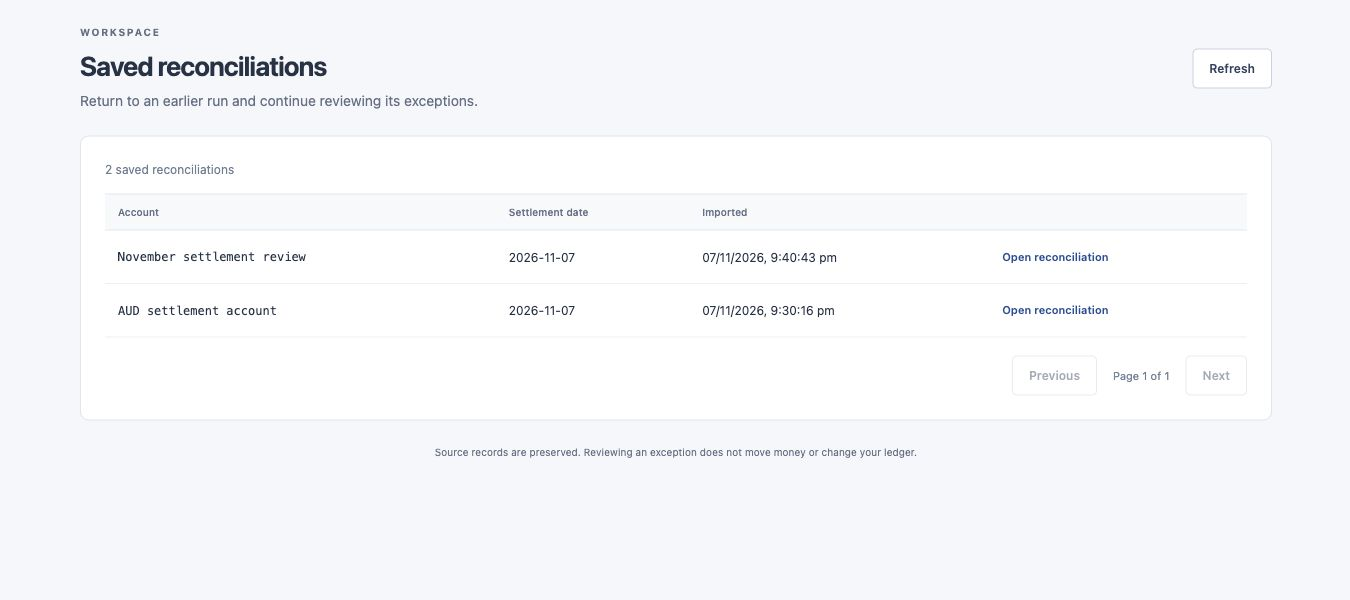
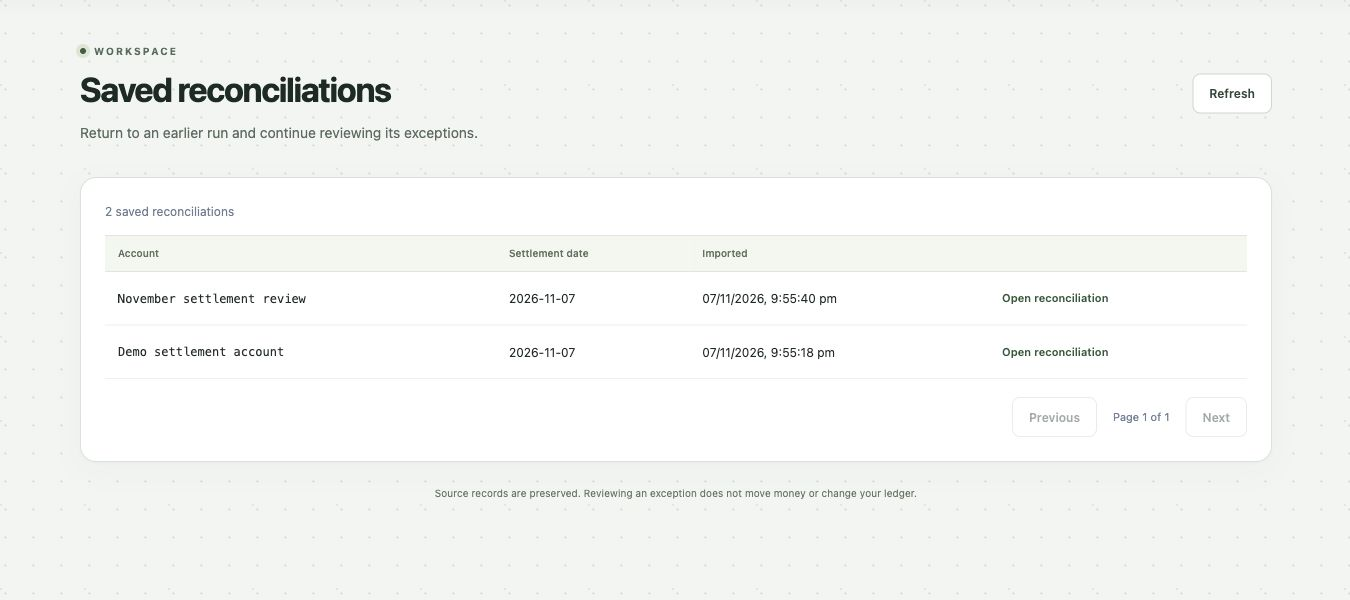
Add animated dot field and refined charcoal and sage workspace

diff --git a/src/main/resources/static/app.css b/src/main/resources/static/app.css
@@ -5,3 +5,22 @@ header nav{display:flex;height:100%;align-items:stretch;gap:22px;margin-left:aut
 .column-mapping{margin-top:12px;border-top:1px solid #dce3ed;padding-top:10px;font-size:10px;color:#647086}.column-mapping label{margin:10px 0 4px;font-size:10px}.column-mapping select{font-size:11px}.column-mapping button{margin-top:12px;font-size:10px}.column-mapping summary{font-size:11px}
 
 .report-actions{display:flex;gap:8px}.results:first-child{margin-top:0}.results-title{margin-bottom:5px}.results{box-shadow:0 1px 3px #16314e04}@media(max-width:700px){.report-actions{flex-direction:column;gap:6px}.report-actions button{padding:7px 9px;font-size:10px}}
+
+/* A quiet moving dot field sits behind the workspace, never over the data. */
+:root{--blue:#182d2b;--border:#dfe4e2;--muted:#64716e;background:#f3f5f2;color:#202b29}
+body{isolation:isolate;overflow-x:hidden}
+body::before,body::after{content:"";position:fixed;inset:-56px;pointer-events:none;z-index:-1;background-image:radial-gradient(circle,#182621 1px,transparent 1.3px);background-size:28px 28px;opacity:.13;animation:dot-drift 24s linear infinite;will-change:transform}
+body::after{background-size:84px 84px;opacity:.08;animation:dot-drift 38s linear infinite reverse}
+@keyframes dot-drift{from{transform:translate3d(0,0,0)}to{transform:translate3d(28px,28px,0)}}
+header{background:#172522;color:#fff;border-bottom:1px solid #34423d;box-shadow:0 4px 20px #13211a0d}
+.brand{color:#f5f8f1;letter-spacing:-.8px}.logo{background:#d4e8b6;color:#172522;border-radius:9px;box-shadow:inset 0 0 0 1px #ffffff40}
+.header-note{color:#b2c0b8;border-color:#405049}.nav-button{color:#aebfb6}.nav-button.active{color:#e0efc9;border-bottom-color:#c7dfa7}.settings-button{background:#243530;border-color:#4a5b53;color:#e1e9e2}
+main{padding-top:38px}.page-title{min-height:115px;margin-bottom:26px}.kicker{display:flex;align-items:center;gap:8px;color:#556b5e;letter-spacing:2px}.kicker::before{content:"";width:6px;height:6px;background:#425c45;border-radius:50%;box-shadow:0 0 0 4px #dbe6d4}
+h1{font-size:34px;letter-spacing:-1.3px;color:#192b24;font-weight:700}.page-title p:last-child{margin-top:8px;color:#5a6c61;max-width:610px}
+.input-panel,.results{border-color:#d9e1d9;border-radius:16px;box-shadow:0 8px 32px #192d1e07,0 1px 2px #192d1e06;background:#fffffff7}
+button,input,select,textarea{transition:background-color .18s,border-color .18s,box-shadow .18s,transform .18s}button{border-radius:8px}.primary{background:#213d30;box-shadow:0 2px 4px #18322520}.primary:hover:not(:disabled){background:#152b20;transform:translateY(-1px)}.secondary{border-color:#ccd7cf;color:#304638;background:#fff}.secondary:hover:not(:disabled){background:#f0f5eb;border-color:#a5b99e}.settings-button:hover:not(:disabled){background:#344b40}.nav-button:hover:not(:disabled){background:#ffffff09}
+.upload{border-color:#c3d0c4;background:#f7faf5;border-radius:12px;transition:border-color .2s,box-shadow .2s}.upload:hover{border-color:#7d977c;box-shadow:0 3px 12px #31492b08}.file-icon{background:#e9f0e1;border-color:#d4dfc9;color:#44633d;border-radius:8px}
+.stats{overflow:hidden;border-radius:11px;background:#fafcf8}.stats strong{font-size:34px;color:#243e2b}.stats>div:nth-child(2){background:#f1f7ec}.stats>div:nth-child(3){background:#fdf9ee}.stats .attention strong{color:#956827}.stats>div:nth-child(4){background:#f3f7f2}.stats>div{padding:19px 20px}
+.tabs{background:#edf1eb;border-radius:8px}.tabs button[aria-pressed=true]{color:#233d2a;border-radius:6px}.row-detail{color:#30593b}.result-table tbody tr:hover{background:#f8fbf5}th{background:#f3f6f0;color:#61715e}td{border-bottom-color:#eaf0e7}.sample-notice{background:#edf3e8;color:#4b6344}.empty{background:#ffffff85;border:1px dashed #cbd8c8;border-radius:16px;margin-top:24px;padding:36px 20px}.empty>span{background:#e3ecd9;color:#526a45}.empty h2{color:#4c6244}dialog{border-radius:16px;border-color:#ccd8c9;box-shadow:0 24px 90px #14251d33}dialog::backdrop{background:#12231cb3;backdrop-filter:blur(3px)}.next-step{background:#f0f5eb}.activity li{border-left-color:#b7cfa9}footer{color:#677863}
+@media(max-width:700px){h1{font-size:27px}.page-title{min-height:105px}.stats strong{font-size:26px}.stats>div{padding:13px 9px}main{padding-top:24px}header{gap:12px}.input-panel,.results{border-radius:12px}}
+@media(prefers-reduced-motion:reduce){body::before,body::after{animation:none;will-change:auto}button,input,select,textarea,.upload{transition:none}.primary:hover:not(:disabled){transform:none}}
